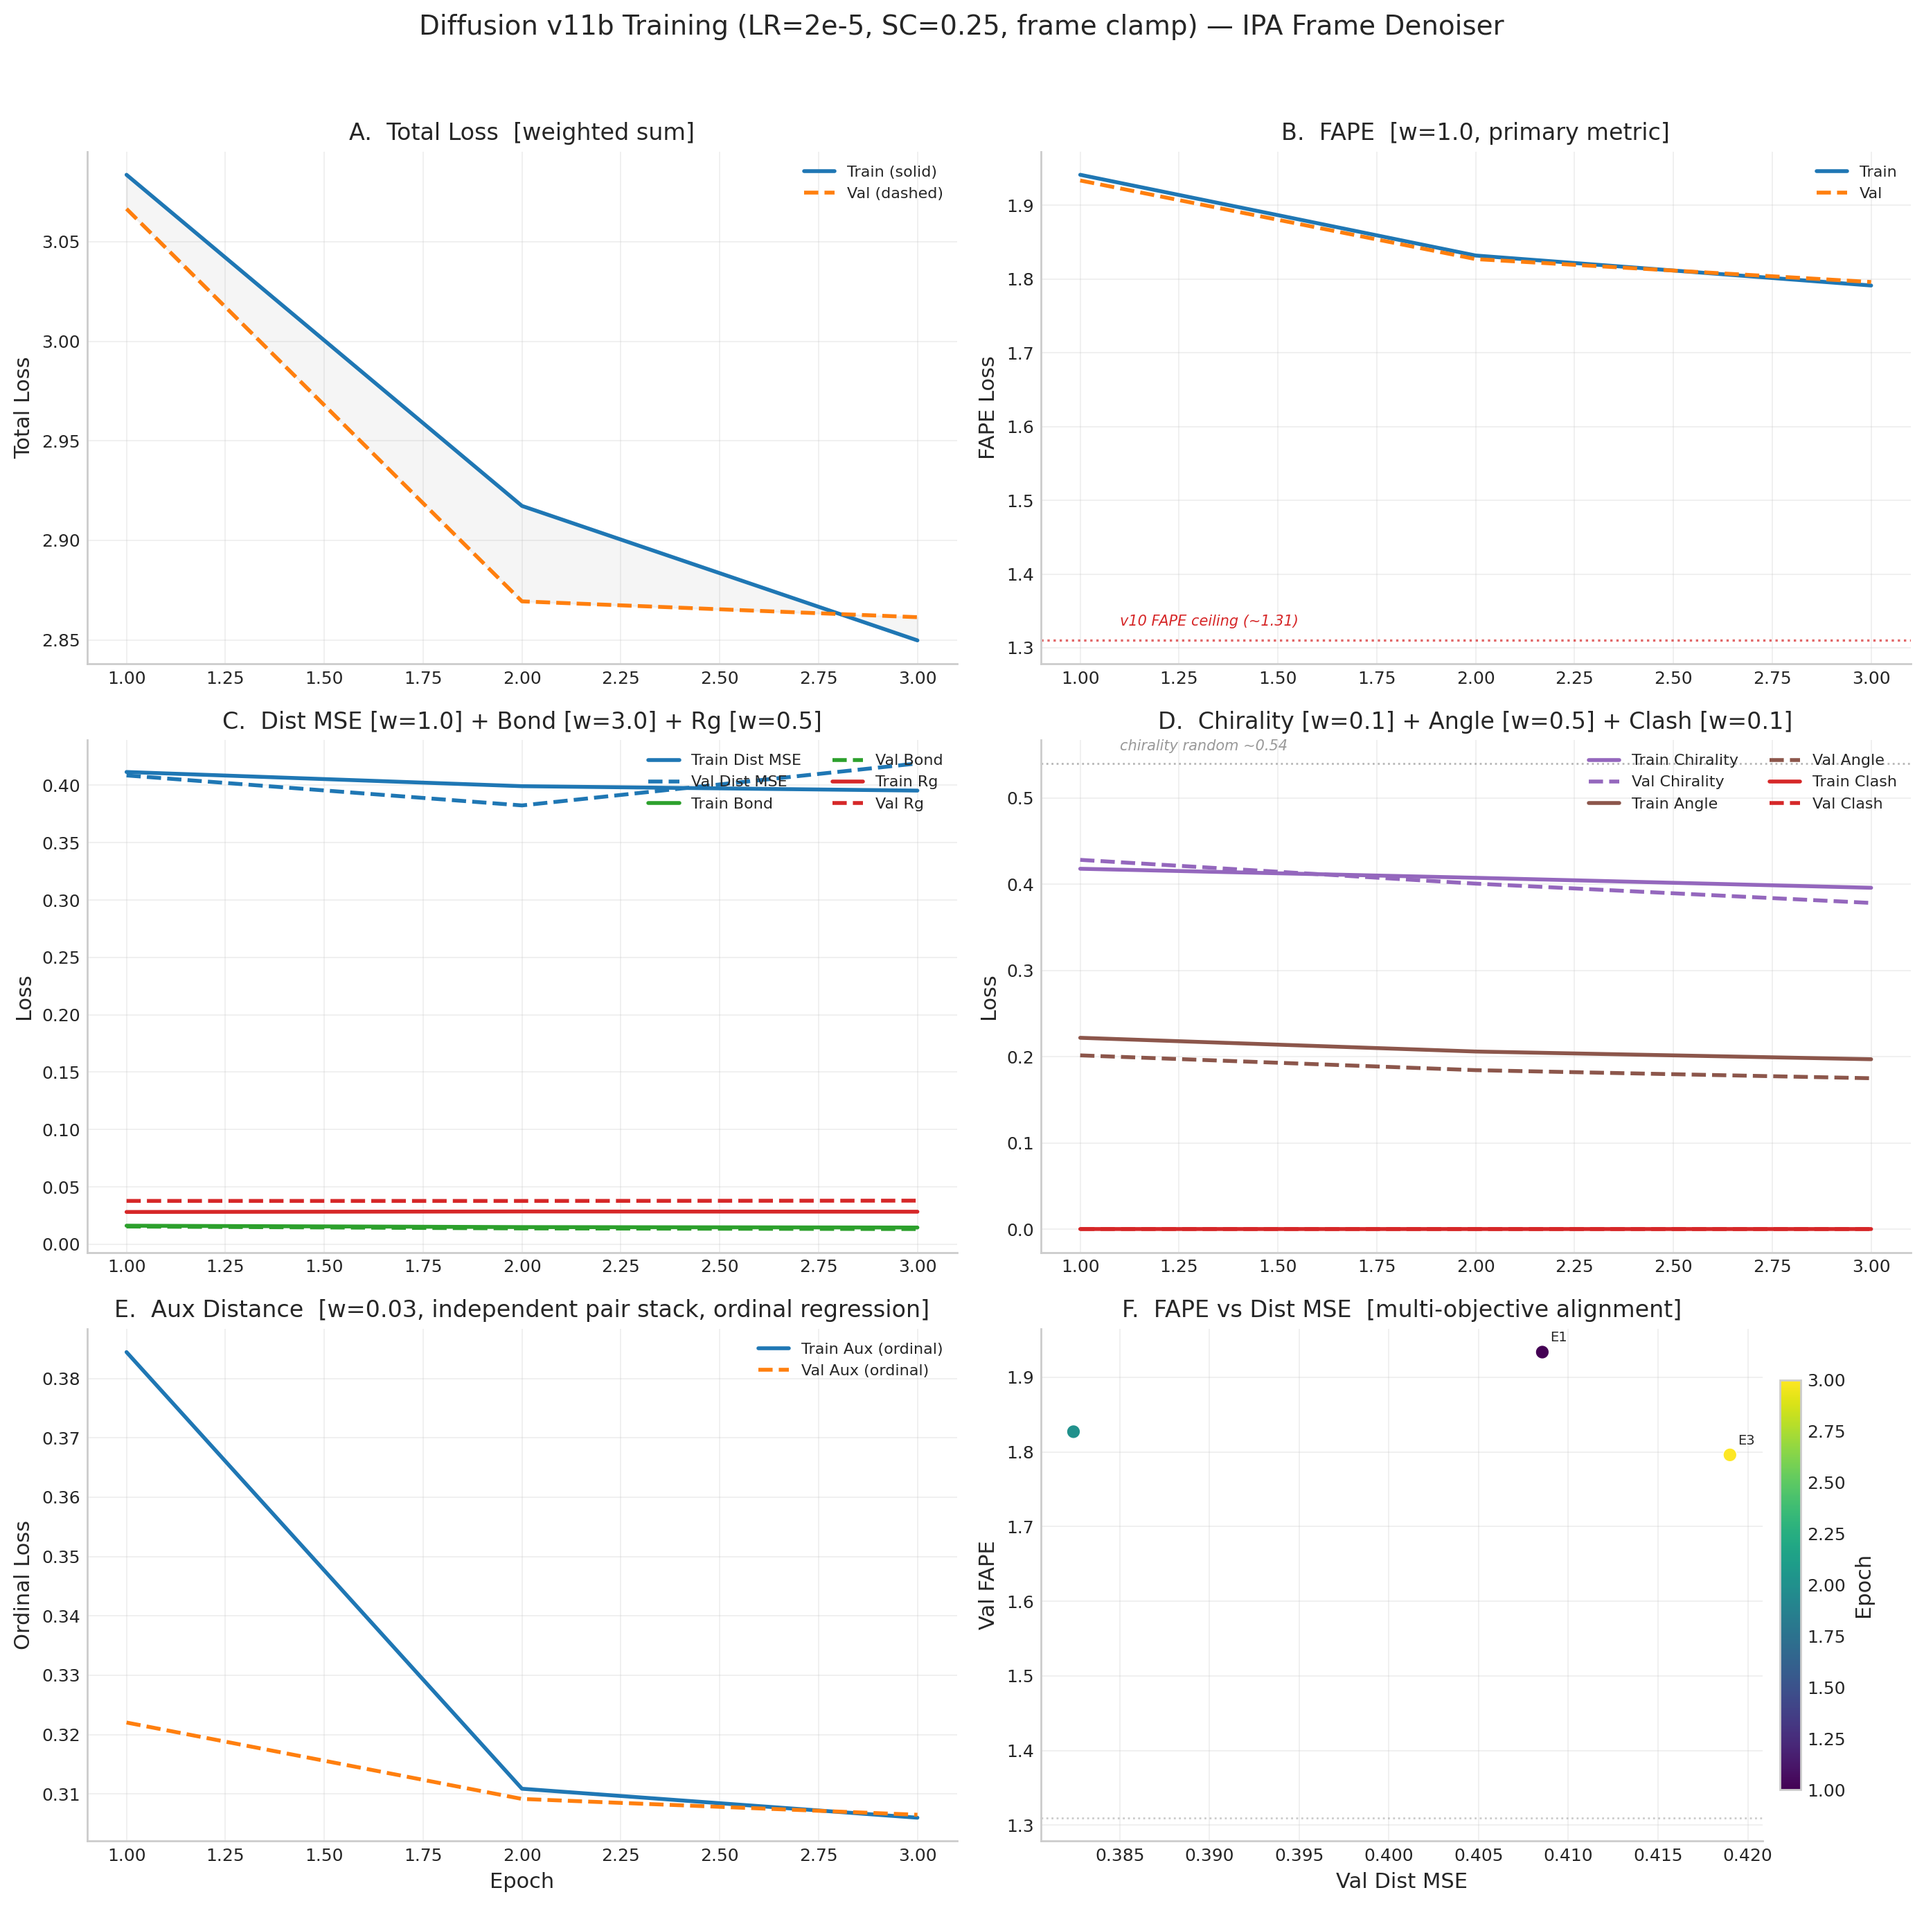
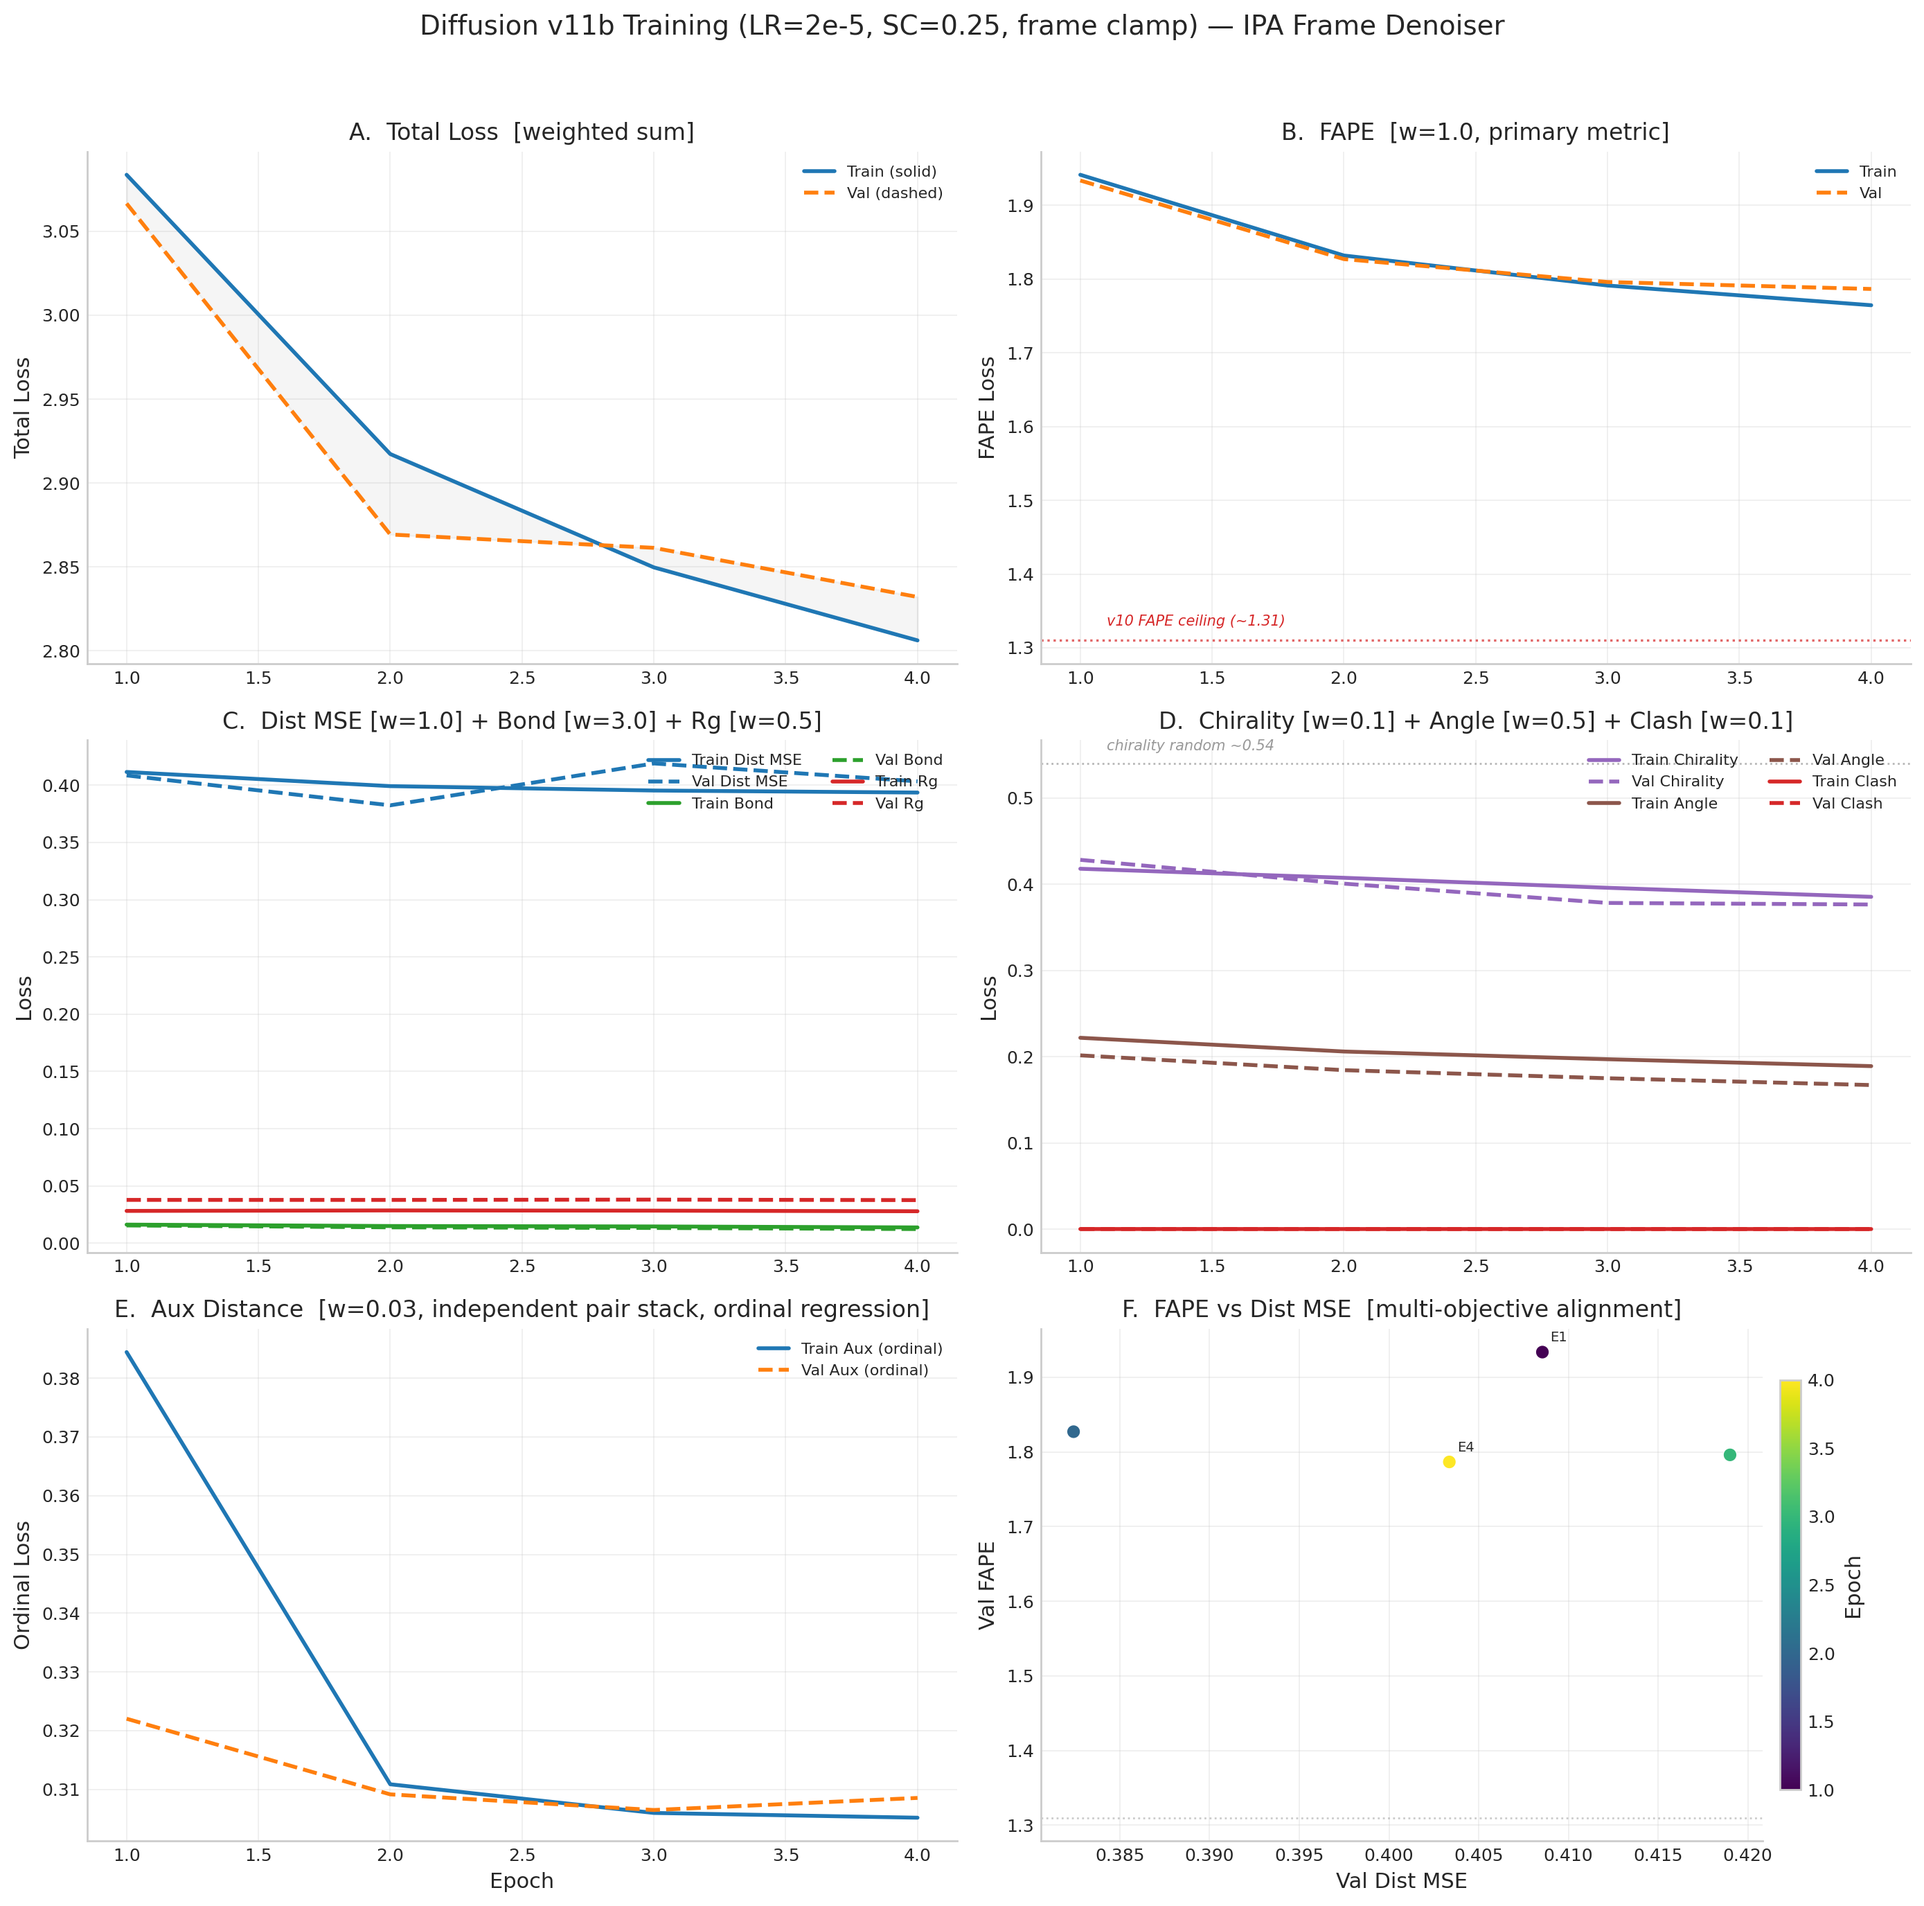
v11b E4: val FAPE 1.787, frame_rot 0.942 — 4/4 new best

diff --git a/index.html b/index.html
@@ -1526,25 +1526,26 @@
 
         <!-- Status / Live interpretation -->
         <div class="training-pending-note" id="v9-run2-status" style="border-left: 3px solid #2ca02c;">
-          <strong style="color: #2ca02c;">v11b Epoch 3 &mdash; Fix Confirmed Working: Rotations Learning, FAPE Below v11 Best</strong>
+          <strong style="color: #2ca02c;">v11b Epoch 4 &mdash; 4/4 NEW BEST, FAPE Steadily Dropping</strong>
           <ul style="margin: 6px 0 6px 18px; font-size: 0.95em;">
-            <li><strong>val FAPE: 1.796</strong> (E1: 1.934 &rarr; E2: 1.827 &rarr; E3: 1.796) &mdash;
-                <span style="color: #2ca02c;">already below v11 E10 best (1.818) by epoch 3!</span></li>
-            <li><strong>frame_rot: 0.943</strong> (E1: 1.067 &rarr; E2: 0.960 &rarr; E3: 0.943) &mdash;
-                <span style="color: #2ca02c;">steadily decreasing, rotations being supervised for first time.</span>
-                ~76&deg; mean angular error, down from ~94&deg; at E1.</li>
-            <li><strong>DDIM: TM = 0.094, RMSD = 17.52&Aring;</strong> &mdash; stable at 2x v11 E15 (TM=0.046).
-                Structural quality should improve as frame_rot continues dropping.</li>
-            <li><strong>val dist_mse: 0.419</strong> | bond: 0.013 | rg: 0.038 &mdash; distances stable.</li>
-            <li><strong>Patience: 0/15</strong> &mdash; all 3 epochs *NEW BEST*. lr reaching full 2e-5.</li>
+            <li><strong>val FAPE: 1.787</strong> (E1: 1.934 &rarr; E2: 1.827 &rarr; E3: 1.796 &rarr; E4: 1.787) &mdash;
+                <span style="color: #2ca02c;">monotonic improvement, well below v11 E10 best (1.818).</span>
+                Still 0.48 above random baseline (1.31).</li>
+            <li><strong>frame_rot: 0.942</strong> (E1: 1.067 &rarr; E2: 0.960 &rarr; E3: 0.943 &rarr; E4: 0.942) &mdash;
+                train frame_rot (0.935) leading val (0.942). Improvement slowing &mdash; may plateau ~0.9 before
+                deeper learning kicks in at later epochs.</li>
+            <li><strong>DDIM: TM = 0.090, RMSD = 17.64&Aring;</strong> &mdash; slight dip from E3 (0.094).
+                DDIM lags loss improvements; watch for TM &gt; 0.15 milestone.</li>
+            <li><strong>val dist_mse: 0.403</strong> | bond: 0.012 (improving) | rg: 0.038 &mdash; distances tightening.</li>
+            <li><strong>Patience: 0/15</strong> &mdash; all 4 epochs *NEW BEST*. LR at full 2e-5.</li>
           </ul>
-          <strong>Trend analysis (E1&ndash;E3):</strong>
+          <strong>Trend analysis (E1&ndash;E4):</strong>
           <p style="font-size: 0.92em; line-height: 1.55; margin: 6px 0;">
-            The architectural fix is confirmed working. frame_rot is monotonically decreasing (1.067 &rarr; 0.943),
-            proving the rotation quaternions now receive gradient signal via frame_rotation_loss and fape_loss_with_frames.
-            FAPE is improving faster than v11 ever did &mdash; already surpassed v11&rsquo;s best in 3 epochs vs. 10.
-            LR just finished warmup at E3 (now at full 2e-5). Expect accelerated learning in E4&ndash;E10.
-            Key milestone: DDIM TM &gt; 0.15 would indicate rotations are translating to sampling quality.
+            All loss components improving monotonically. Train FAPE (1.764) is pulling ahead of val (1.787),
+            suggesting the model is learning real structure rather than memorizing. Bond geometry at 0.012 is
+            the best seen across all v11 runs. frame_rot descent is slowing (0.943&rarr;0.942) which is expected &mdash;
+            initial easy gains from identity-biased quaternions, harder refinement comes later.
+            The v11b fix is solid. E5 in progress, ~24 min SLURM time remaining.
           </p>
           <details style="margin-top: 8px;">
             <summary style="cursor: pointer; font-size: 0.92em; color: var(--text-secondary);">
@@ -1572,7 +1573,7 @@
           </details>
         </div>
         <div style="color: var(--text-secondary); font-size: 0.85em; margin-top: 8px;" id="v9-last-updated">
-          Last updated: 2026-03-09 16:33 UTC
+          Last updated: 2026-03-09 17:37 UTC
         </div>
 
         <!-- v10 Historical Results (collapsed) -->
